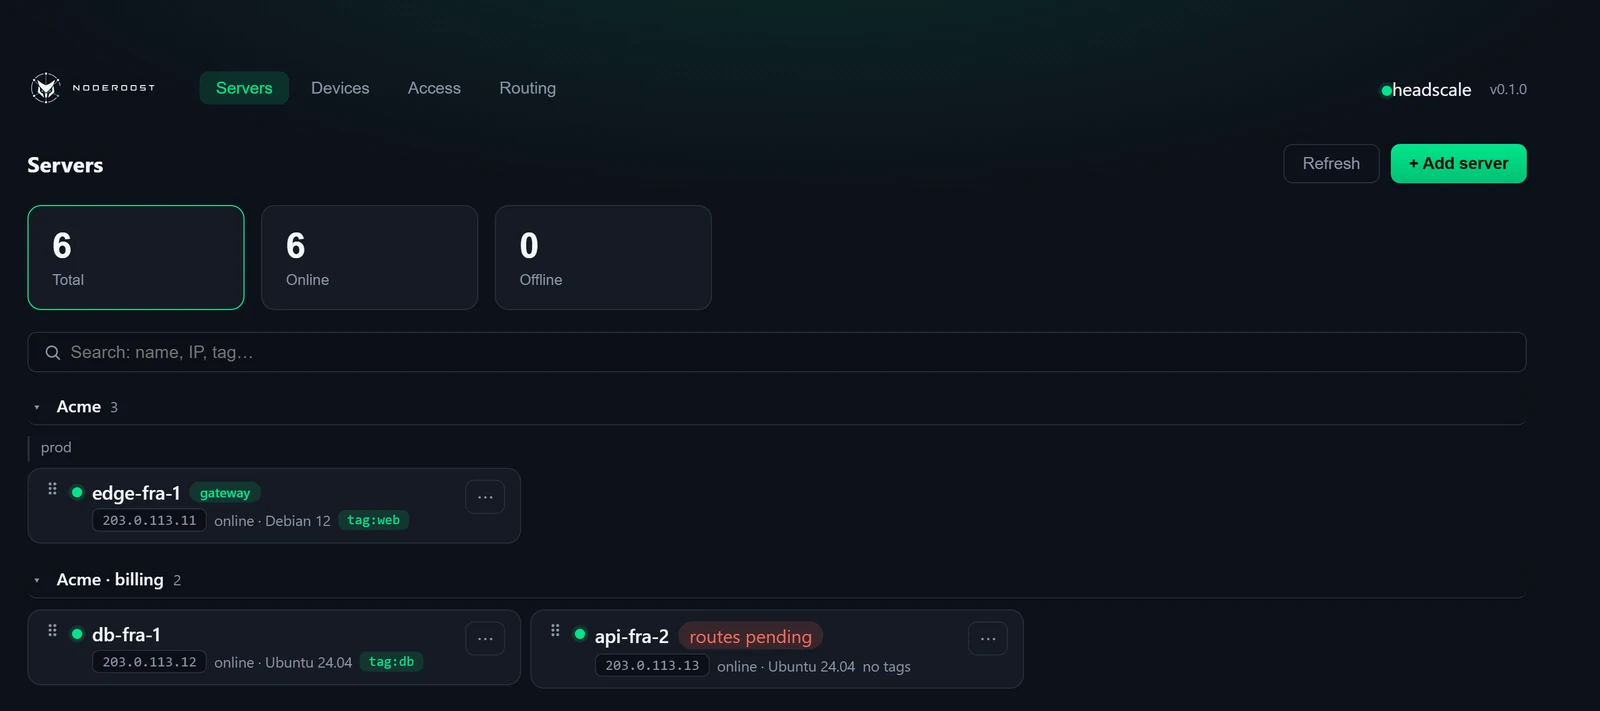
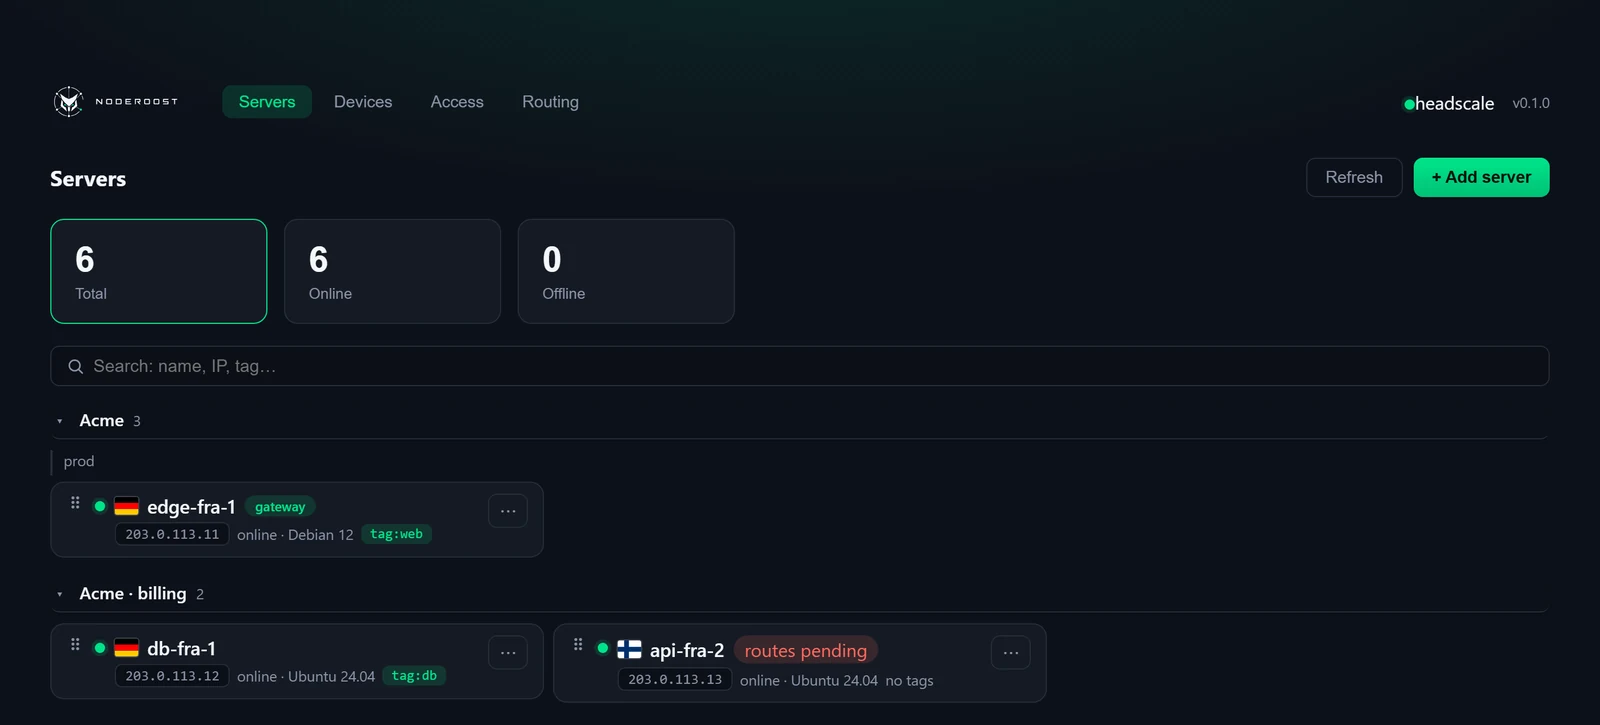
Lead the comparison with the panel's column, and put flags in the shots
The section spent a headline and a four-line paragraph on what is tedious
about plain headscale, then ten more rows of it — the same complaint three
times over, before saying anything the panel does.

Now: a heading that answers the question a reader actually has, one
sentence of positioning (it does not replace headscale and does not proxy
traffic), and the table reordered so what you get comes first and reads
brighter, with the manual way beside it in grey. Added a row for the
country flag while there.

Screenshot mocks carry flags too, so the landing shows the feature.

diff --git a/landing/site/index.html b/landing/site/index.html
@@ -18,7 +18,7 @@
 <link rel="mask-icon" href="/safari-pinned-tab.svg" color="#00E58A">
 <link rel="manifest" href="/site.webmanifest">
 <meta name="theme-color" content="#0D111A">
-<link rel="stylesheet" href="/style.css?v=4">
+<link rel="stylesheet" href="/style.css?v=5">
 </head>
 <body>
 
@@ -72,32 +72,29 @@
 <section id="why">
   <div class="wrap">
     <p class="eyebrow-s">Зачем</p>
-    <h2>headscale даёт сеть. Дальше — руками</h2>
+    <h2>Зачем панель, если headscale и так работает</h2>
     <p class="sub">
-      headscale раздаёт ключи, держит netmap и применяет политику. Управление —
-      это CLI и файл <code>policy.hujson</code>. На пяти нодах терпимо; дальше
-      приходится помнить теги наизусть, не ошибиться в ACL, ходить по SSH на
-      каждую ноду ради одного маршрута и узнавать о падении сервера от
-      пользователя. <b>NodeRoost — слой управления над тем же headscale:</b> он
-      его не заменяет и не проксирует трафик.
+      Панель не заменяет headscale и не проксирует трафик. Она берёт на себя то,
+      что иначе делается руками — в CLI и в файле политики.
     </p>
 
     <div class="tablewrap">
       <table>
         <thead>
-          <tr><th>Задача</th><th>Без панели</th><th>С NodeRoost</th></tr>
+          <tr><th>Задача</th><th>С NodeRoost</th><th>Без панели</th></tr>
         </thead>
         <tbody>
-          <tr><td>Выдать доступ</td><td>править <code>policy.hujson</code> руками</td><td>правило «кто → куда → порт» мышью</td></tr>
-          <tr><td>Изоляция личных устройств</td><td>следить за этим самому в ACL</td><td>устройства не видят друг друга всегда</td></tr>
-          <tr><td>Подсеть за нодой</td><td><code>approve-routes</code> по номеру ноды в CLI</td><td>кнопка на карточке сервера</td></tr>
-          <tr><td>Трафик к нужному адресу</td><td>подобрать CIDR и следить за сменой IP</td><td>указать домен — адрес панель обновит сама</td></tr>
-          <tr><td>Маршрут на самой ноде</td><td>SSH на каждую машину</td><td>агент применяет сам</td></tr>
-          <tr><td>Выход в интернет</td><td>exit-node открыт всем, кто прошёл ACL</td><td>у каждого устройства свой список шлюзов</td></tr>
-          <tr><td>Кто сейчас онлайн</td><td><code>nodes list</code> — только срез на сейчас</td><td>история и алерты в Telegram</td></tr>
-          <tr><td>Подключить машину</td><td>создать ключ в CLI и продиктовать команду</td><td>ключ и готовая команда под нужную ОС</td></tr>
-          <tr><td>Бэкап</td><td>копировать sqlite-файл вручную</td><td>снимок по расписанию, с проверкой</td></tr>
-          <tr><td>Ошибка в правилах</td><td>править файл и применять заново</td><td>откат к предыдущей рабочей версии</td></tr>
+          <tr><td>Выдать доступ</td><td>правило «кто → куда → порт» мышью</td><td>править <code>policy.hujson</code> руками</td></tr>
+          <tr><td>Изоляция личных устройств</td><td>устройства не видят друг друга всегда</td><td>следить за этим самому в ACL</td></tr>
+          <tr><td>Подсеть за нодой</td><td>кнопка на карточке сервера</td><td><code>approve-routes</code> по номеру ноды в CLI</td></tr>
+          <tr><td>Трафик к нужному адресу</td><td>указать домен — адрес панель обновит сама</td><td>подобрать CIDR и следить за сменой IP</td></tr>
+          <tr><td>Маршрут на самой ноде</td><td>агент применяет сам</td><td>SSH на каждую машину</td></tr>
+          <tr><td>Выход в интернет</td><td>у каждого устройства свой список шлюзов</td><td>exit-node открыт всем, кто прошёл ACL</td></tr>
+          <tr><td>Кто сейчас онлайн</td><td>история и алерты в Telegram</td><td><code>nodes list</code> — только срез на сейчас</td></tr>
+          <tr><td>Подключить машину</td><td>ключ и готовая команда под нужную ОС</td><td>создать ключ в CLI и продиктовать команду</td></tr>
+          <tr><td>Где стоит сервер</td><td>флаг страны по внешнему адресу</td><td>помнить самому или лезть в whois</td></tr>
+          <tr><td>Бэкап</td><td>снимок по расписанию, с проверкой</td><td>копировать sqlite-файл вручную</td></tr>
+          <tr><td>Ошибка в правилах</td><td>откат к предыдущей рабочей версии</td><td>править файл и применять заново</td></tr>
         </tbody>
       </table>
     </div>
@@ -446,7 +443,7 @@ curl -fsSL https://control.example.com/agent/&lt;токен&gt;/setup | sh</pre>
   </div>
 </footer>
 
-<script src="/lb.js?v=4" defer></script>
+<script src="/lb.js?v=5" defer></script>
 
 </body>
 </html>

diff --git a/landing/site/en/index.html b/landing/site/en/index.html
@@ -18,7 +18,7 @@
 <link rel="mask-icon" href="/safari-pinned-tab.svg" color="#00E58A">
 <link rel="manifest" href="/site.webmanifest">
 <meta name="theme-color" content="#0D111A">
-<link rel="stylesheet" href="/style.css?v=4">
+<link rel="stylesheet" href="/style.css?v=5">
 </head>
 <body>
 
@@ -72,32 +72,30 @@
 <section id="why">
   <div class="wrap">
     <p class="eyebrow-s">Why</p>
-    <h2>headscale gives you the network. The rest is manual</h2>
+    <h2>Why a panel when headscale already works</h2>
     <p class="sub">
-      headscale issues keys, keeps the netmap and enforces the policy. Managing
-      it means the CLI and a <code>policy.hujson</code> file. That is fine for
-      five nodes; past that you memorise tags, hope you got the ACL right, SSH
-      into every node for a single route, and hear about a node being down from
-      its user. <b>NodeRoost is a management layer on top of the same
-      headscale</b> — it does not replace it and it does not proxy traffic.
+      The panel does not replace headscale and does not proxy traffic. It takes
+      over the part that is otherwise done by hand — in the CLI and in the policy
+      file.
     </p>
 
     <div class="tablewrap">
       <table>
         <thead>
-          <tr><th>Task</th><th>Without the panel</th><th>With NodeRoost</th></tr>
+          <tr><th>Task</th><th>With NodeRoost</th><th>Without the panel</th></tr>
         </thead>
         <tbody>
-          <tr><td>Granting access</td><td>edit <code>policy.hujson</code> by hand</td><td>a “who → where → port” rule, by clicking</td></tr>
-          <tr><td>Isolating personal devices</td><td>yours to get right in the ACL</td><td>devices never see each other</td></tr>
-          <tr><td>A subnet behind a node</td><td><code>approve-routes</code> by node ID in the CLI</td><td>a button on the server card</td></tr>
-          <tr><td>Traffic to one destination</td><td>pick the CIDR, watch for the IP changing</td><td>name the domain — the panel tracks it</td></tr>
-          <tr><td>Applying a route on the node</td><td>SSH into every machine</td><td>the agent applies it</td></tr>
-          <tr><td>Internet egress</td><td>the exit node is open to anyone the ACL allows</td><td>every device gets its own list of gateways</td></tr>
-          <tr><td>Who is online</td><td><code>nodes list</code> — this moment only</td><td>history and Telegram alerts</td></tr>
-          <tr><td>Onboarding a machine</td><td>make a key in the CLI, dictate the command</td><td>a key and a ready command for the OS</td></tr>
-          <tr><td>Backups</td><td>copy the sqlite file yourself</td><td>a scheduled snapshot, verified</td></tr>
-          <tr><td>A mistake in the rules</td><td>edit the file and apply it again</td><td>rollback to the last working version</td></tr>
+          <tr><td>Granting access</td><td>a “who → where → port” rule, by clicking</td><td>edit <code>policy.hujson</code> by hand</td></tr>
+          <tr><td>Isolating personal devices</td><td>devices never see each other</td><td>yours to get right in the ACL</td></tr>
+          <tr><td>A subnet behind a node</td><td>a button on the server card</td><td><code>approve-routes</code> by node ID in the CLI</td></tr>
+          <tr><td>Traffic to one destination</td><td>name the domain — the panel tracks it</td><td>pick the CIDR, watch for the IP changing</td></tr>
+          <tr><td>Applying a route on the node</td><td>the agent applies it</td><td>SSH into every machine</td></tr>
+          <tr><td>Internet egress</td><td>every device gets its own list of gateways</td><td>the exit node is open to anyone the ACL allows</td></tr>
+          <tr><td>Who is online</td><td>history and Telegram alerts</td><td><code>nodes list</code> — this moment only</td></tr>
+          <tr><td>Onboarding a machine</td><td>a key and a ready command for the OS</td><td>make a key in the CLI, dictate the command</td></tr>
+          <tr><td>Where a server sits</td><td>a country flag from its public address</td><td>remember it yourself or go look it up</td></tr>
+          <tr><td>Backups</td><td>a scheduled snapshot, verified</td><td>copy the sqlite file yourself</td></tr>
+          <tr><td>A mistake in the rules</td><td>rollback to the last working version</td><td>edit the file and apply it again</td></tr>
         </tbody>
       </table>
     </div>
@@ -446,7 +444,7 @@ curl -fsSL https://control.example.com/agent/&lt;token&gt;/setup | sh</pre>
   </div>
 </footer>
 
-<script src="/lb.js?v=4" defer></script>
+<script src="/lb.js?v=5" defer></script>
 
 </body>
 </html>

diff --git a/landing/site/style.css b/landing/site/style.css
@@ -137,14 +137,15 @@ thead th{
   background:var(--surface-2); color:var(--dim); font:600 11.5px/1.4 var(--mono);
   letter-spacing:.1em; text-transform:uppercase; white-space:nowrap;
 }
-thead th:last-child{color:var(--accent); padding-left:36px}
+thead th:nth-child(2){color:var(--accent); padding-left:36px}
 td:first-child{color:var(--text); font-weight:600; width:24%}
-td:nth-child(2){color:var(--dim); width:34%}
-td:last-child{color:#D7DFEA; width:42%; position:relative; padding-left:36px}
-td:last-child::before{
+/* сначала то, что даёт панель, — и оно ярче; «без панели» рядом, приглушённым */
+td:nth-child(2){color:#D7DFEA; width:40%; position:relative; padding-left:36px}
+td:nth-child(2)::before{
   content:"✓"; position:absolute; left:16px; top:13px;
   color:var(--accent); font-weight:700; font-size:13px;
 }
+td:last-child{color:var(--dim); width:36%}
 tbody tr:nth-child(even){background:rgba(255,255,255,.016)}
 tbody tr:hover{background:rgba(0,229,138,.05)}
 code{font-family:var(--mono); font-size:.92em; color:#BFD8CC}

diff --git a/docs/genshots.py b/docs/genshots.py
@@ -17,6 +17,7 @@ TMP = Path(os.environ.get("TEMP", "/tmp")) / "nr-shots"
 CHROME = r"C:\Program Files\Google\Chrome\Application\chrome.exe"
 CSS = sorted(glob.glob(str(ROOT / "frontend" / "dist" / "assets" / "*.css")))[-1]
 LOGO = (ROOT / "landing" / "site" / "logo.svg")   # горизонтальный локап на тёмном
+FLAGS = ROOT / "frontend" / "public" / "flags"   # кладёт prebuild из flag-icons
 
 SHELL = """<!doctype html><html lang="{lang}"><head><meta charset="utf-8">
 <link rel="stylesheet" href="file:///{css}">
@@ -53,7 +54,15 @@ def header(active, labels):
     )
 
 
-def node_card(name, ip, os_name, badges="", tags="", desc="", lang="ru"):
+def flag(cc):
+    """Флаг страны — как в панели: страна там берётся по внешнему IP (app/geoip.py)."""
+    if not cc:
+        return ""
+    src = str(FLAGS / f"{cc.lower()}.svg").replace("\\", "/")
+    return f'<img class="country-flag" src="file:///{src}" alt="{cc.upper()}">'
+
+
+def node_card(name, ip, os_name, badges="", tags="", desc="", lang="ru", cc=""):
     b = "".join(badges)
     online = "онлайн" if lang == "ru" else "online"
     t = tags or (
@@ -65,7 +74,7 @@ def node_card(name, ip, os_name, badges="", tags="", desc="", lang="ru"):
       <div class="node-main">
         <span class="nr-grip">⠿</span><span class="dot dot-ok"></span>
         <div class="node-info">
-          <div class="node-title"><span class="node-name">{name}</span>{b}</div>{d}
+          <div class="node-title">{flag(cc)}<span class="node-name">{name}</span>{b}</div>{d}
           <div class="node-meta"><span class="chip">{ip}</span>
             <span class="muted small">{online} · {os_name}</span>{t}</div>
         </div>
@@ -103,16 +112,16 @@ def servers_page(lang):
     g1 = group("Acme", 3,
         node_card("edge-fra-1", "203.0.113.11", "Debian 12",
                   ['<span class="pill-ok">' + L["gw"] + "</span>"],
-                  '<span class="tag-chip">tag:web</span>', lang=lang),
+                  '<span class="tag-chip">tag:web</span>', lang=lang, cc="de"),
         sub="prod")
     g2 = group("Acme · billing", 2,
         node_card("db-fra-1", "203.0.113.12", "Ubuntu 24.04",
-                  [], '<span class="tag-chip">tag:db</span>', lang=lang)
+                  [], '<span class="tag-chip">tag:db</span>', lang=lang, cc="de")
         + node_card("api-fra-2", "203.0.113.13", "Ubuntu 24.04",
                     ['<span class="pill-warn route-pending pill-action">маршруты ожидают</span>'
                      if lang == "ru" else
                      '<span class="pill-warn route-pending pill-action">routes pending</span>'],
-                    lang=lang))
+                    lang=lang, cc="fi"))
     return f"""
     {header(0, L['nav'])}
     <div class="page-head"><h2>{L['h']}</h2>
@@ -261,7 +270,7 @@ def node_page(lang):
     return f"""
     {header(0, L['nav'])}
     <button class="linklike detail-back">{L['back']}</button>
-    <div class="page-head"><h2 class="detail-title"><span class="dot dot-ok"></span>edge-fra-1
+    <div class="page-head"><h2 class="detail-title"><span class="dot dot-ok"></span>{flag("de")}edge-fra-1
       <span class="pill-ok">exit</span></h2>
       <div class="page-head-actions"><button class="ghost">{L['edit']}</button>
       <button class="ghost icon-btn"><span class="menu-gear">⋯</span></button></div></div>
